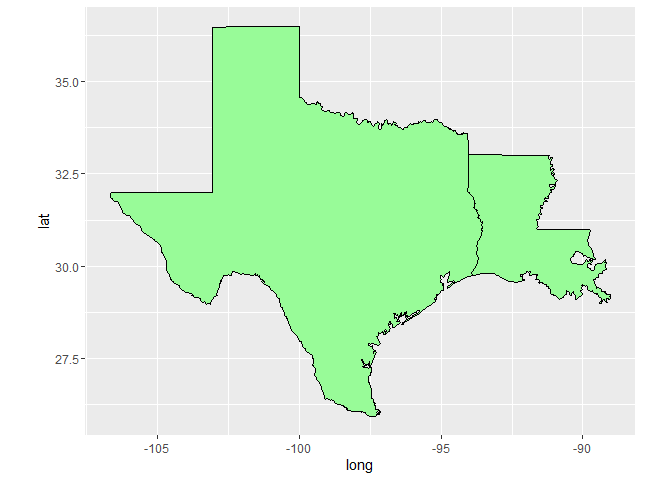
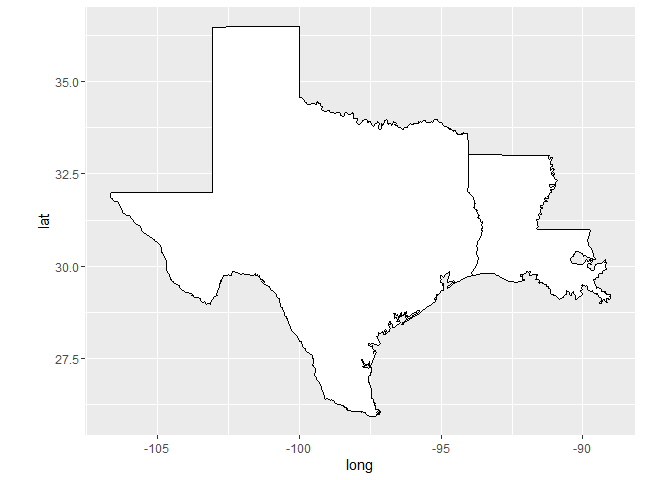
fleshed out README

Changed region(s): [[0.1562, 0.0312, 0.9062, 0.875]]

diff --git a/README.md b/README.md
@@ -9,7 +9,7 @@ README
 
 The package includes a custom ggplot geom for visualizing directional
 wind fields in the four quadrants defined by the cardinal directions
-(NE, NW, SW, SE)
+(e.g. NE, NW, SW, SE).
 
 ## Installation
 
@@ -18,16 +18,17 @@ package:
 
 ``` r
 library(devtools)
-install_github("rsizem2/")
+install_github("rsizem2/wind-radii-geom")
 ```
 
 ## Example
 
 We include a raw dataset which can be used with our new geom. To access
 this data, use the `get_hurricane_data` function, which will return the
-data in a format that is easily manipulated for visualization purposes.
-and subset our hurricane data to a specific observation corresponding to
-Hurricane Ike at
+data in a format that can be most easily fed into our new geom. We
+restrict our attention to a specific observation corresponding to
+Hurricane Ike at 6:00 UTC on September 13, 2008, when the hurricane was
+just off the Texas coast.
 
 ``` r
 library(hurricane)
@@ -42,14 +43,15 @@ ike_data <- get_hurricane_data() %>%
 
 We use the `maps` package to load map data for more context for our
 visualizations, which will be used as the baseplot on which we’ll add
-our new geom as a layer.
+our new geom as a layer. For the sake of our visualization we grab data
+for Louisiana and Texas.
 
 ``` r
 
 gulf_coast <- map_data("state") %>% subset(region %in% c('texas','louisiana'))
 
 base_map <- ggplot(data = gulf_coast) + 
-    geom_polygon(aes(x = long, y = lat, group = group), fill = "palegreen", color = "black") +
+    geom_polygon(aes(x = long, y = lat, group = group), fill = "white", color = "black") +
     coord_fixed(1.3) 
 
 base_map
@@ -58,7 +60,8 @@ base_map
 <img src="man/figures/README-getmap-1.png" width="100%" />
 
 We can then use our `geom_hurricane` function to add a new layer to this
-base plot.
+base plot, using the windspeed columns to determine the colors of each
+circular quadrant:
 
 ``` r
 base_map + geom_hurricane(data = ike_data,
